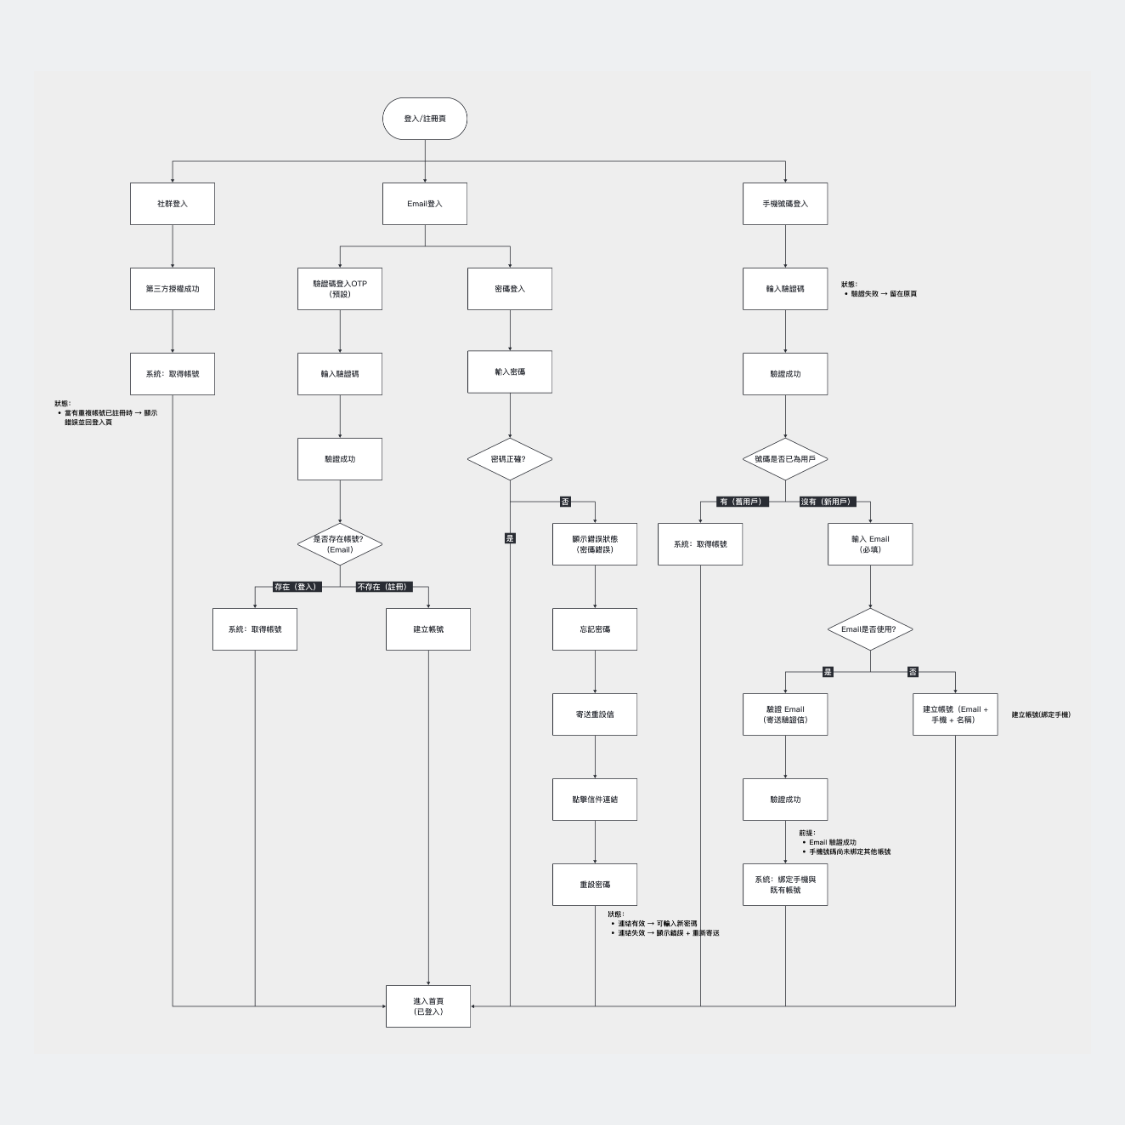
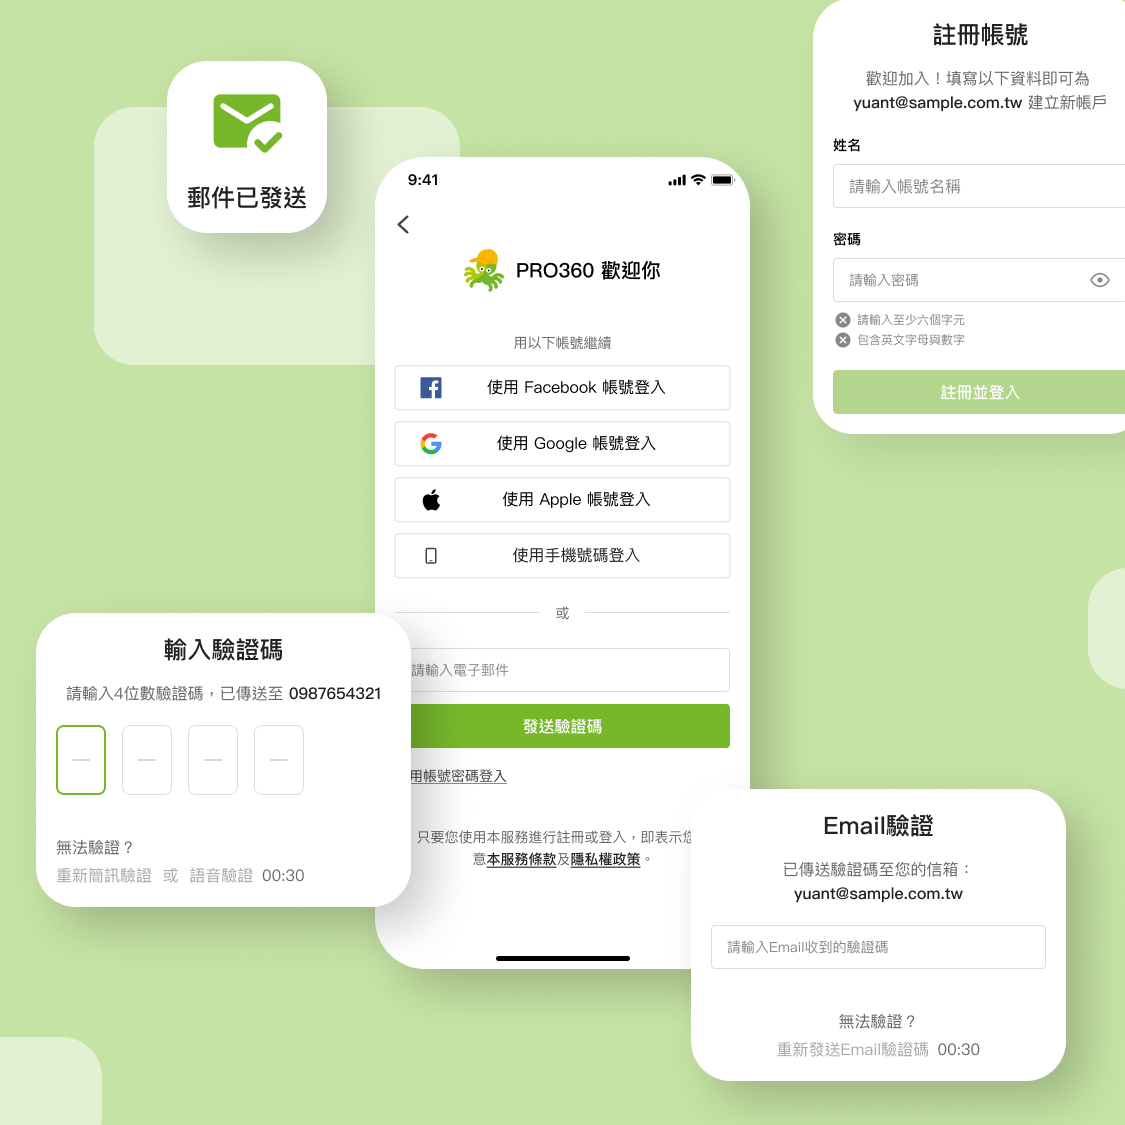
更新登入流程優化的首頁卡片圖（登入介面組圖）

diff --git a/portfolio/index.html b/portfolio/index.html
@@ -787,7 +787,7 @@
       lead:'重構多年疊加的登入流程，把「判斷帳號狀態」的工作從使用者搬到系統身上。',
       leadEn:'Restructured a login flow tangled by years of iteration, moving the burden of judgment from the user to the system.',
       flowImg:'images/pro360-login-flow.png',
-      cardImg:'images/pro360-card.png' },   // 卡片用整張流程圖縮進 1:1 的版本，直接裁只會看到糊掉的方塊
+      cardImg:'images/pro360-card.png' },   // 首頁卡片用 1:1 的登入介面組圖（內頁第②段仍放完整流程圖 flowImg）
     { id:'shop',    cat:'build',    spec:'deep', title:'旅買記 · 日本購物消費追蹤 App', titleEn:'旅買記 · Japan Shopping Tracker', h:'h1x', ratio:'3/2',
       client:'個人專案', clientEn:'Personal project', platform:'Web App（行動優先）', platformEn:'Web App (Mobile-first)', role:'產品設計 · 開發', roleEn:'Product Design · Development', tool:'Claude Code + GitHub Pages', toolEn:'Claude Code + GitHub Pages', year:'2026',
       lead:'旅日購物時追蹤消費與預算的小工具，從發現真實需求、定義 MVP 到自己動手做並上線。',